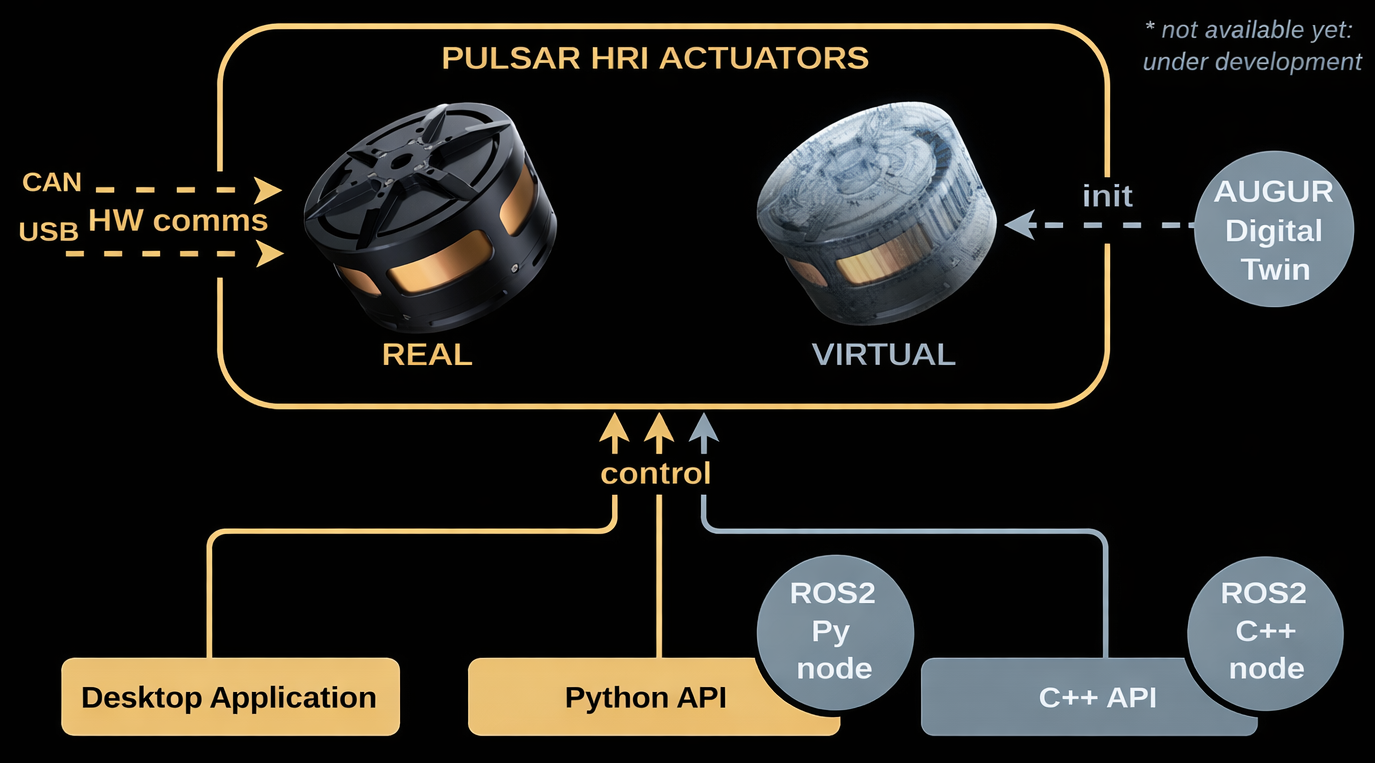
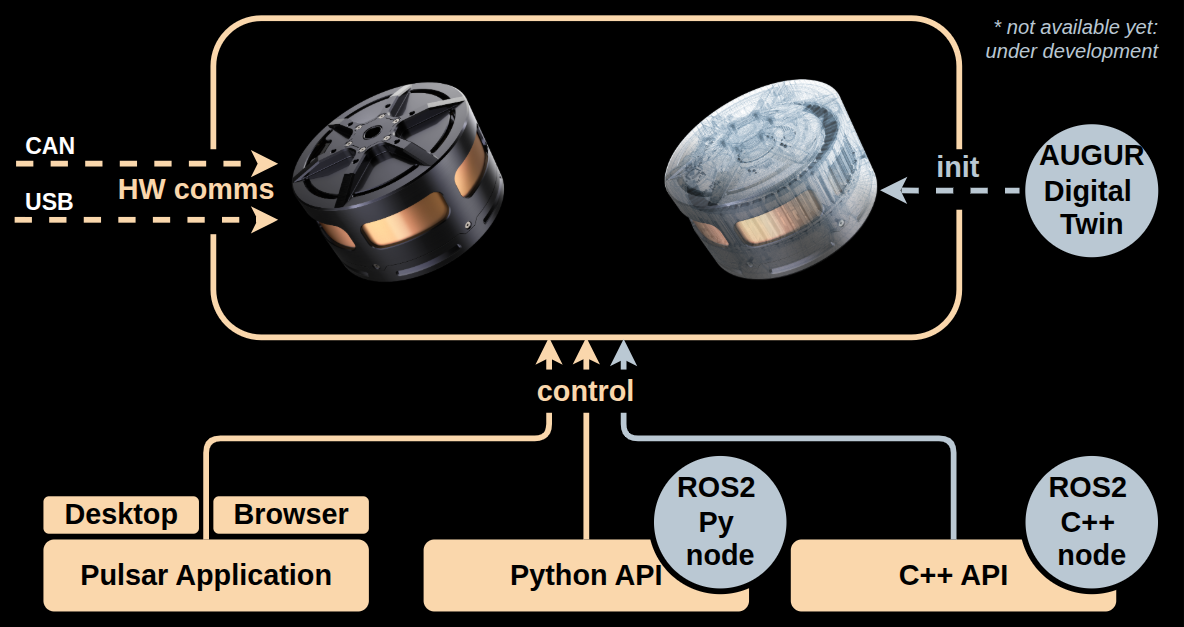
docs: updated home page ecosystem diagram and text to add c++ api and browser pulsar app availability

Changed region(s): [[0.0, 0.0, 1.0, 1.0]]

diff --git a/docs/index.md b/docs/index.md
@@ -31,7 +31,7 @@ At a glance, these are the main elements of the PULSAR HRI ecosystem:
     - [**PULSAR App GUI**](control/pulsar_app/pulsar_app.md): A no-code GUI for single-actuator testing, available in the browser or as a desktop package, offering [the easiest quickstart experience](quickstarts/quickstart_pulsar_app.md) to get familiar with PULSAR HRI actuators and their control.
     - [**Python API**](control/python_api/install_python_api.md): A simple but powerful way to control multiple actuators in robotics prototypes and to leverage Python libraries such as for **ML** and **AI** applications.
         - 🚧 **ROS2 Python Node** (*under development*).
-    - 🚧 [**C++ API**](control/cpp_api/cli.md): Intended to control multiple actuators in demanding applications with strict real-time requirements, where latency is a blocker.
+    - [**C++ API**](control/cpp_api/cli.md): Intended to control multiple actuators in demanding applications with strict real-time requirements, where latency is a blocker.
         - 🚧 **ROS2 C++ Node** (*under development*).
 
 !!! note